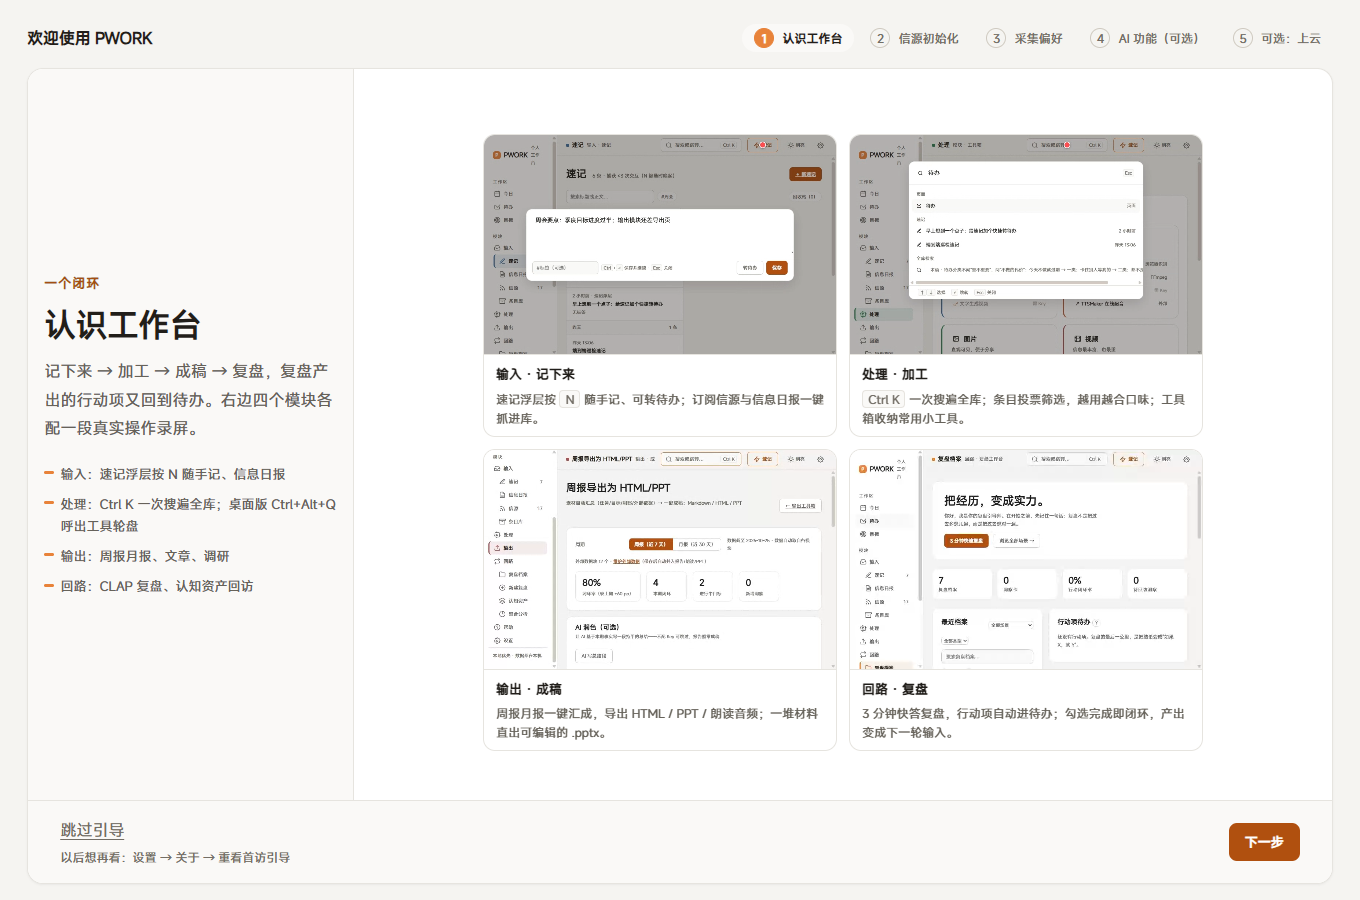
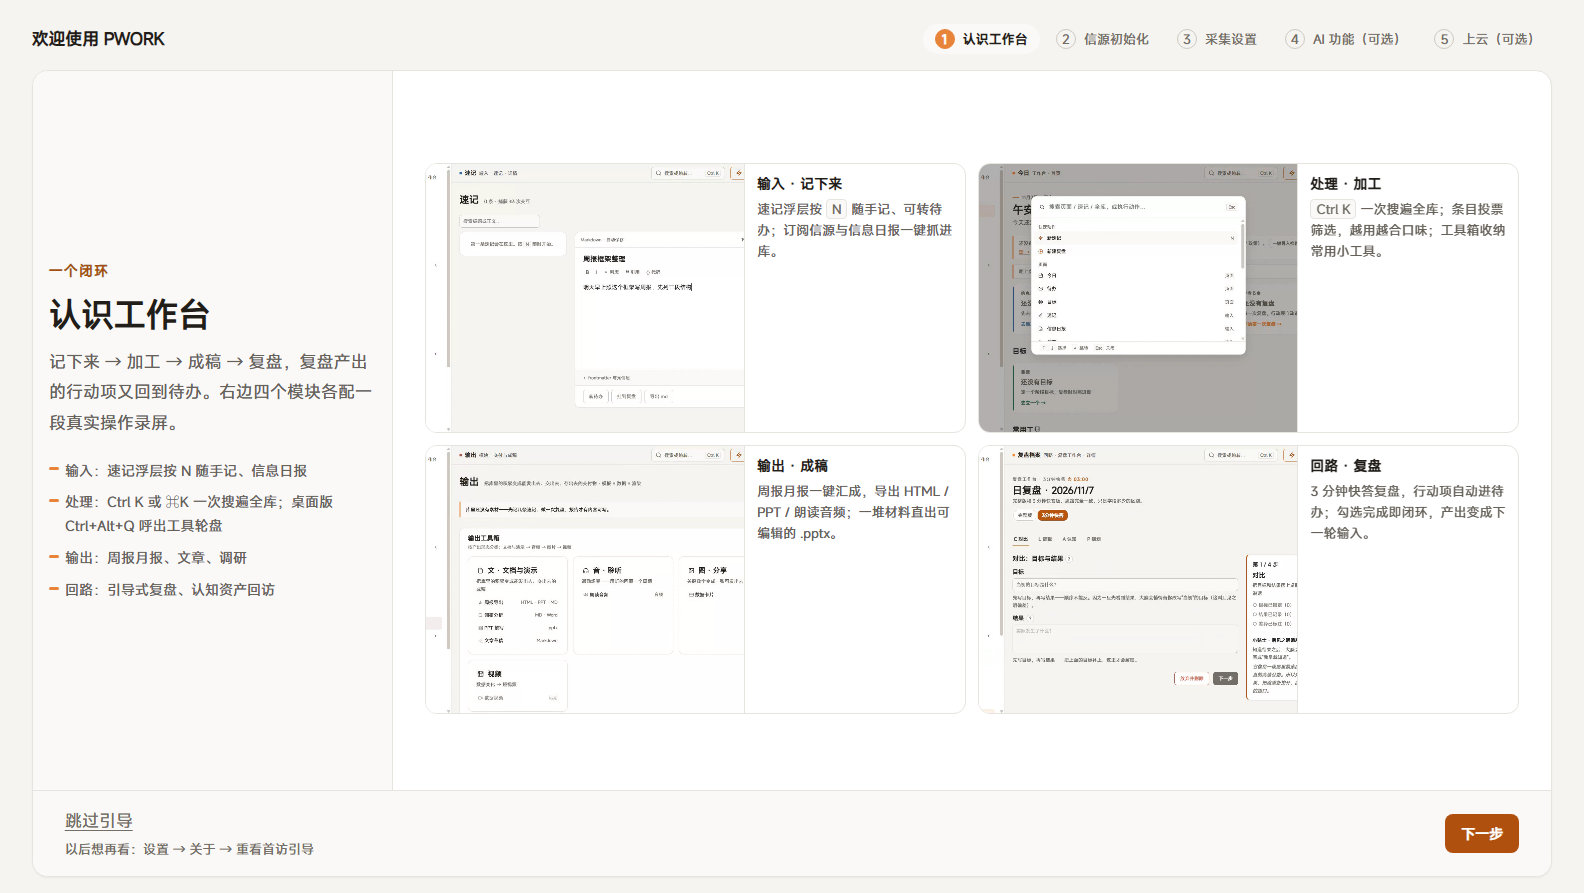
docs(介绍页人味批，用户反馈): ①hero 补「为谁设计」句（写作者/研究者/自由职业者/不愿交出笔记的人）——对照成熟开源发布页共性（LocalSend 口语化/Obsidian 人物场景/Joplin 平台矩阵）补齐人物视角；②platforms 补手机浏览器可装主屏（0.1.16 移动端能力上页）；③新增 06「找到我们」反馈区（Discussions 推荐/内测微信群指引指向应用内最新码/issue 直达）——真人可找是人味核心来源，赞助区顺延 07；④第二步模块句补通知中心一句（0.1.16 新构件上页）；⑤「四百余项」→「五百余项」失步修复；⑥hero 截图重截为 0.1.1

diff --git a/docs/index.html b/docs/index.html
@@ -288,6 +288,7 @@
       <h1>一个装在你电脑里的<br>个人工作台，数据<em>只属于你</em></h1>
       <p class="lead">记下来、加工、成稿、复盘，四步连成一个循环——全部在你自己的电脑上运行：不上传、不注册、断网也能用。</p>
       <p class="sub">随手速记、订阅网站更新、每天一份信息日报、一次搜索找出所有内容、一键生成周报和 PPT、复盘后的行动项自动进待办。该有的都有，多余的一样没有。</p>
+      <p class="sub">为每天要写东西、要读东西、要交东西的人做的——写作者、研究者、自由职业者，或者任何不想把笔记交给别人服务器的人。</p>
     <div class="cta-row">
       <a class="btn-primary" href="https://pworkupdate-1306346848.cos.ap-chongqing.myqcloud.com/PWORK_0.1.16_x64-setup-online.exe" target="_blank" rel="noreferrer noopener">下载 Windows 版</a>
       <a class="btn-ghost" href="https://pwork.loganlink0.cn/demo/" target="_blank" rel="noreferrer noopener">在线体验演示版</a>
@@ -296,7 +297,7 @@
       <div class="platforms">
         <span>Windows 10/11 桌面版</span>
         <span>macOS（Apple Silicon）内测首包</span>
-        <span>也可以在浏览器里运行</span>
+        <span>浏览器里也能用，手机浏览器可装到主屏</span>
         <span>断网也能用</span>
       </div>
       <div class="facts">
@@ -331,7 +332,7 @@
         <div class="mod" style="--mc: var(--m-process)">
           <span class="tag">第二步</span>
           <b>加工</b>
-          <span>按 Ctrl K 一次搜出所有内容；读过的文章可以投票，投得越多，筛选越合你的口味；信源自己会汇报产出健康度，主题声量反常时日报自动点名；还有一批常用小工具。</span>
+          <span>按 Ctrl K 一次搜出所有内容；读过的文章可以投票，投得越多，筛选越合你的口味；信源自己会汇报产出健康度，主题声量反常时日报自动点名；还有一批常用小工具。任务完成与到期提醒都有通知留痕，顶栏铃铛随时回看。</span>
         </div>
         <div class="mod" style="--mc: var(--m-output)">
           <span class="tag">第三步</span>
@@ -421,7 +422,7 @@ $ <span class="d">数据去向</span>
         </div>
         <div class="card">
           <b>从源码构建</b>
-          <p>全部代码公开：界面、桌面安装包、云端同步服务、部署脚本都在仓库里，四百余项自动化测试可以自己跑一遍验证。</p>
+          <p>全部代码公开：界面、桌面安装包、云端同步服务、部署脚本都在仓库里，五百余项自动化测试可以自己跑一遍验证。</p>
           <a href="https://github.com/LoganLink0/pwork" target="_blank" rel="noreferrer noopener">浏览源码 →</a>
         </div>
       </div>
@@ -462,10 +463,39 @@ $ <span class="d">数据去向</span>
     </div>
   </section>
 
-  <section class="band band-surface" id="support">
+  <section class="band band-surface" id="feedback">
     <div class="wrap">
       <div class="sec-head">
         <div class="no">06</div>
+        <div>
+          <div class="kicker">找到我们</div>
+          <h2>用着别扭的地方，直接说出来</h2>
+          <p>PWORK 还在内测，每一个真实使用里的问题都比想象中值钱。三种方式都在：说缺陷、提想法、或者就聊聊你怎么用。</p>
+        </div>
+      </div>
+      <div class="trust">
+        <div class="card">
+          <b>Discussions（推荐）</b>
+          <p>提问、提想法、晒你的用法都在 GitHub Discussions——作者会逐条回复，好的想法会变成更新。缺陷报告附上「设置 → 数据管理」导出的错误日志，修起来最快。</p>
+          <a href="https://github.com/LoganLink0/pwork/discussions" target="_blank" rel="noreferrer noopener">去 Discussions →</a>
+        </div>
+        <div class="card">
+          <b>内测微信群</b>
+          <p>想即时聊、或者发截图不方便用 GitHub 的，扫码进「PWORK 内测群」。群二维码会过期，最新版在应用内：帮助 → 常见问题 的反馈区，或者 设置 → 关于。</p>
+        </div>
+        <div class="card">
+          <b>缺陷直达</b>
+          <p>能复现的缺陷直接开 issue（选「bug 报告」模板），写上系统版本和复现步骤；错误日志导出文件可以直接拖进 issue。</p>
+          <a href="https://github.com/LoganLink0/pwork/issues/new/choose" target="_blank" rel="noreferrer noopener">开 issue →</a>
+        </div>
+      </div>
+    </div>
+  </section>
+
+  <section class="band" id="support">
+    <div class="wrap">
+      <div class="sec-head">
+        <div class="no">07</div>
         <div>
           <div class="kicker">自愿赞助</div>
           <h2>请作者喝杯咖啡</h2>
